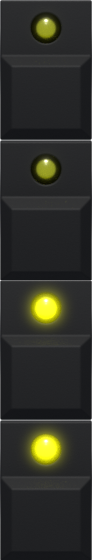
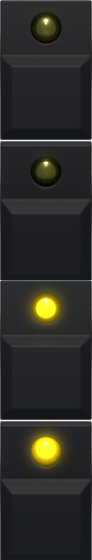
Latest skin updates, missing Xpander params in ParamList

diff --git a/src/PluginEditor.cpp b/src/PluginEditor.cpp
@@ -357,12 +357,23 @@ void ObxfAudioProcessorEditor::loadSkin(ObxfAudioProcessor &ownerFilter)
 
                 if (name == "legatoList")
                 {
-                    if (auto list = addList(x, y, w, h, ownerFilter, ID::LegatoMode,
-                                            Name::LegatoMode, "menu-legato");
+                    if (auto list = addList(x, y, w, h, ownerFilter, ID::EnvLegatoMode,
+                                            Name::EnvLegatoMode, "menu-legato");
                         list != nullptr)
                     {
                         legatoList = std::move(list);
                         mappingComps["legatoList"] = legatoList.get();
+                    }
+                }
+
+                if (name == "notePriorityList")
+                {
+                    if (auto list = addList(x, y, w, h, ownerFilter, ID::NotePriority,
+                                            Name::NotePriority, "menu-note-priority");
+                        list != nullptr)
+                    {
+                        notePriorityList = std::move(list);
+                        mappingComps["notePriorityList"] = notePriorityList.get();
                     }
                 }
 
@@ -800,9 +811,8 @@ void ObxfAudioProcessorEditor::loadSkin(ObxfAudioProcessor &ownerFilter)
 
                 if (name == "vibratoWaveButton")
                 {
-                    vibratoWaveButton =
-                        addButton(x, y, w, h, ownerFilter, ID::VibratoRate, Name::VibratoRate,
-                                  useAssetOrDefault(pic, "button-slim"));
+                    vibratoWaveButton = addButton(x, y, w, h, ownerFilter, ID::VibratoWave,
+                                                  Name::VibratoWave, "button-slim-vibrato-wave");
                     mappingComps["vibratoWaveButton"] = vibratoWaveButton.get();
                 }
                 if (name == "vibratoRateKnob")
@@ -868,14 +878,6 @@ void ObxfAudioProcessorEditor::loadSkin(ObxfAudioProcessor &ownerFilter)
                         addButton(x, y, w, h, ownerFilter, ID::BendOsc2Only, Name::BendOsc2Only,
                                   useAssetOrDefault(pic, "button"));
                     mappingComps["bendOsc2OnlyButton"] = bendOsc2OnlyButton.get();
-                }
-
-                if (name == "notePriorityButton")
-                {
-                    notePriorityButton =
-                        addButton(x, y, w, h, ownerFilter, ID::NotePriority, Name::NotePriority,
-                                  useAssetOrDefault(pic, "button"));
-                    mappingComps["notePriorityButton"] = notePriorityButton.get();
                 }
 
                 if (name == "filterDetuneKnob")
@@ -1116,13 +1118,26 @@ void ObxfAudioProcessorEditor::loadSkin(ObxfAudioProcessor &ownerFilter)
     if (legatoList)
     {
         legatoList->addChoice("Both Envelopes");
-        legatoList->addChoice("Filter Envelope");
-        legatoList->addChoice("Amplifier Envelope");
-        legatoList->addChoice("Retrigger");
+        legatoList->addChoice("Filter Envelope Only");
+        legatoList->addChoice("Amplifier Envelope Only");
+        legatoList->addChoice("Always Retrigger");
         const auto legatoOption =
-            ownerFilter.getValueTreeState().getParameter(ID::LegatoMode)->getValue();
+            ownerFilter.getValueTreeState().getParameter(ID::EnvLegatoMode)->getValue();
         legatoList->setScrollWheelEnabled(true);
         legatoList->setValue(legatoOption, juce::dontSendNotification);
+    }
+
+    if (notePriorityList)
+    {
+        notePriorityList->addChoice("Last");
+        notePriorityList->addChoice("Low");
+        notePriorityList->addChoice("High");
+
+        const auto notePrioOption =
+            ownerFilter.getValueTreeState().getParameter(ID::NotePriority)->getValue();
+
+        notePriorityList->setScrollWheelEnabled(true);
+        notePriorityList->setValue(notePrioOption, juce::dontSendNotification);
     }
 
     if (bendUpRangeList)

diff --git a/src/PluginEditor.h b/src/PluginEditor.h
@@ -201,16 +201,16 @@ class ObxfAudioProcessorEditor final : public juce::AudioProcessorEditor,
         osc2PulButton, unisonButton, pitchEnvInvertButton, pwEnvInvertButton, noiseColorButton,
         oversamplingButton, filterBPBlendButton, lfoOsc1Button, lfoOsc2Button, lfoFilterButton,
         lfoPwm1Button, lfoPwm2Button, lfoVolumeButton, bendOsc2OnlyButton, vibratoWaveButton,
-        fourPoleButton, xpanderFilterButton, notePriorityButton, midiLearnButton, midiUnlearnButton,
-        lfoSyncButton, pwEnvBothButton, envPitchBothButton, fenvInvertButton, selfOscPushButton,
-        prevPatchButton, nextPatchButton, initPatchButton, randomizePatchButton, groupSelectButton;
+        fourPoleButton, xpanderFilterButton, midiLearnButton, midiUnlearnButton, lfoSyncButton,
+        pwEnvBothButton, envPitchBothButton, fenvInvertButton, selfOscPushButton, prevPatchButton,
+        nextPatchButton, initPatchButton, randomizePatchButton, groupSelectButton;
 
     std::array<std::unique_ptr<Knob>, MAX_PANNINGS> panKnobs;
     std::array<std::unique_ptr<ToggleButton>, NUM_PATCHES_PER_GROUP> selectButtons;
     std::array<std::unique_ptr<Label>, NUM_PATCHES_PER_GROUP> selectLabels;
 
-    std::unique_ptr<ButtonList> polyphonyList, unisonVoicesList, legatoList, bendUpRangeList,
-        bendDownRangeList, xpanderModeList, patchNumberList;
+    std::unique_ptr<ButtonList> polyphonyList, unisonVoicesList, legatoList, notePriorityList,
+        bendUpRangeList, bendDownRangeList, xpanderModeList, patchNumberList;
 
     std::unique_ptr<MidiKeyboard> midiKeyboard;
     juce::MidiKeyboardState keyboardState;

diff --git a/src/parameter/ParameterList.h b/src/parameter/ParameterList.h
@@ -80,8 +80,8 @@ static const std::vector<ParameterInfo> ParameterList{
     {ID::Unison, pmd().asBool().withName(Name::Unison).withID(8)},
     {ID::VoiceDetune, pmd().asFloat().withName(Name::VoiceDetune).withRange(0.f, 1.f).asPercent().withDefault(0.25f).withDecimalPlaces(1).withID(9846)},
 
-    {ID::LegatoMode, pmd().asFloat().withName(Name::LegatoMode).withRange(0.f, 1.f).withID(12340)},
-    {ID::NotePriority, pmd().asBool().withName(Name::NotePriority).withID(153251)},
+    {ID::EnvLegatoMode, pmd().asFloat().withName(Name::EnvLegatoMode).withRange(0.f, 1.f).withID(12340)},
+    {ID::NotePriority, pmd().asFloat().withName(Name::NotePriority).withRange(0.f, 1.f).withID(153251)},
 
     // <-- OSCILLATORS -->
     {ID::Osc1Pitch, pmd().asFloat().withName(Name::Osc1Pitch).asSemitoneRange(-24.f, 24.f).withDecimalPlaces(2).withID(12352)},
@@ -138,6 +138,9 @@ static const std::vector<ParameterInfo> ParameterList{
 
     {ID::BandpassBlend, pmd().asBool().withName(Name::BandpassBlend).withID(456889)},
     {ID::SelfOscPush, pmd().asBool().withName(Name::SelfOscPush).withID(7747)},
+
+    {ID::XpanderFilter, pmd().asBool().withName(Name::XpanderFilter).withID(999666)},
+    {ID::XpanderMode, pmd().asFloat().withName(Name::XpanderMode).withRange(0.f, 1.f).withID(666999)},
 
     // <-- LFO -->
     {ID::LfoSync, pmd().asBool().withName(Name::LfoSync).withID(9948)},

diff --git a/src/engine/Motherboard.h b/src/engine/Motherboard.h
@@ -54,9 +54,9 @@ class Motherboard
     enum VoicePriority
     {
         LATEST,
-        HIGHEST, // not implemented yet - defaults to latest
+        HIGHEST,
         LOWEST
-    } voicePriorty;
+    } voicePriority;
 
     Lfo mlfo, vibratoLfo;
     float vibratoAmount;
@@ -72,7 +72,7 @@ class Motherboard
     {
         economyMode = true;
         lkl = lkr = 0;
-        voicePriorty = LATEST;
+        voicePriority = LATEST;
         asPlayedCounter = 0;
         for (int i = 0; i < 129; i++)
         {
@@ -174,7 +174,7 @@ class Motherboard
 #if DEBUG_VOICE_MANAGER
         std::ostringstream vposs;
         vposs << "Voice State: mode=";
-        switch (voicePriorty)
+        switch (voicePriority)
         {
         case LATEST:
             vposs << "latest";
@@ -233,7 +233,7 @@ class Motherboard
     {
         Voice *res{nullptr};
 
-        switch (voicePriorty)
+        switch (voicePriority)
         {
         case LATEST:
         {
@@ -287,7 +287,7 @@ class Motherboard
     int nextMidiKeyToRealloc()
     {
         int res{-1};
-        switch (voicePriorty)
+        switch (voicePriority)
         {
         case LATEST:
         {
@@ -332,7 +332,7 @@ class Motherboard
 
     bool shouldGivenKeySteal(int noteNo)
     {
-        switch (voicePriorty)
+        switch (voicePriority)
         {
         case LATEST:
             return true;

diff --git a/src/parameter/ParameterAdaptor.h b/src/parameter/ParameterAdaptor.h
@@ -137,11 +137,11 @@ class ParameterManagerAdaptor
             {EconomyMode, [](SynthEngine &s, float v) { s.procEconomyMode(v); }},
             {VAmpFactor, [](SynthEngine &s, float v) { s.procAmpVelocityAmount(v); }},
             {VFltFactor, [](SynthEngine &s, float v) { s.procFltVelocityAmount(v); }},
-            {NotePriority, [](SynthEngine &s, float v) { s.procAsPlayedAlloc(v); }},
+            {NotePriority, [](SynthEngine &s, float v) { s.procNotePriority(v); }},
             {VibratoRate, [](SynthEngine &s, float v) { s.procModWheelFrequency(v); }},
             {VibratoWave, [](SynthEngine &s, float v) { s.procModWheelWave(v); }},
             {FourPole, [](SynthEngine &s, float v) { s.processFourPole(v); }},
-            {LegatoMode, [](SynthEngine &s, float v) { s.processLegatoMode(v); }},
+            {EnvLegatoMode, [](SynthEngine &s, float v) { s.processLegatoMode(v); }},
             {EnvelopeToPitch, [](SynthEngine &s, float v) { s.processEnvelopeToPitch(v); }},
             {EnvelopeToPitchInv,
              [](SynthEngine &s, float v) { s.processEnvelopeToPitchInvert(v); }},

diff --git a/src/parameter/SynthParam.h b/src/parameter/SynthParam.h
@@ -47,7 +47,7 @@ static const std::string NotePriority{"NotePriority"};
 static const std::string VibratoRate{"VibratoRate"};
 static const std::string VibratoWave{"VibratoWave"};
 static const std::string FourPole{"FourPole"};
-static const std::string LegatoMode{"LegatoMode"};
+static const std::string EnvLegatoMode{"EnvLegatoMode"};
 static const std::string EnvelopeToPitch{"EnvelopeToPitch"};
 static const std::string EnvelopeToPitchInv{"EnvelopeToPitchInv"};
 static const std::string EnvelopeToPWInv{"EnvelopeToPWInv"};
@@ -140,7 +140,7 @@ static const std::string NotePriority{"Note Priority"};
 static const std::string VibratoRate{"Vibrato Rate"};
 static const std::string VibratoWave{"Vibrato Wave"};
 static const std::string FourPole{"Filter 4-Pole Mode"};
-static const std::string LegatoMode{"Legato Mode"};
+static const std::string EnvLegatoMode{"Envelope Legato Mode"};
 static const std::string EnvelopeToPitch{"Filter Env to Pitch"};
 static const std::string EnvelopeToPitchInv{"Invert Filter Env to Pitch"};
 static const std::string EnvelopeToPWInv{"Invert Filter Env to PW"};

diff --git a/src/engine/SynthEngine.h b/src/engine/SynthEngine.h
@@ -104,13 +104,14 @@ class SynthEngine
         else
             synth.mlfo.setUnsynced();
     }
-    void procAsPlayedAlloc(float val)
+    void procNotePriority(float val)
     {
-        if (val < 0.5)
-            synth.voicePriorty = Motherboard::LOWEST;
+        if (val < 0.33333333f)
+            synth.voicePriority = Motherboard::LATEST;
+        else if (val < 0.666666666f)
+            synth.voicePriority = Motherboard::LOWEST;
         else
-            synth.voicePriorty = Motherboard::LATEST;
-        DBG("Set procAsPlayedAlloc voicePriority to " << (int)synth.voicePriorty);
+            synth.voicePriority = Motherboard::HIGHEST;
     }
     void procNoteOn(int noteNo, float velocity, int8_t channel)
     {
